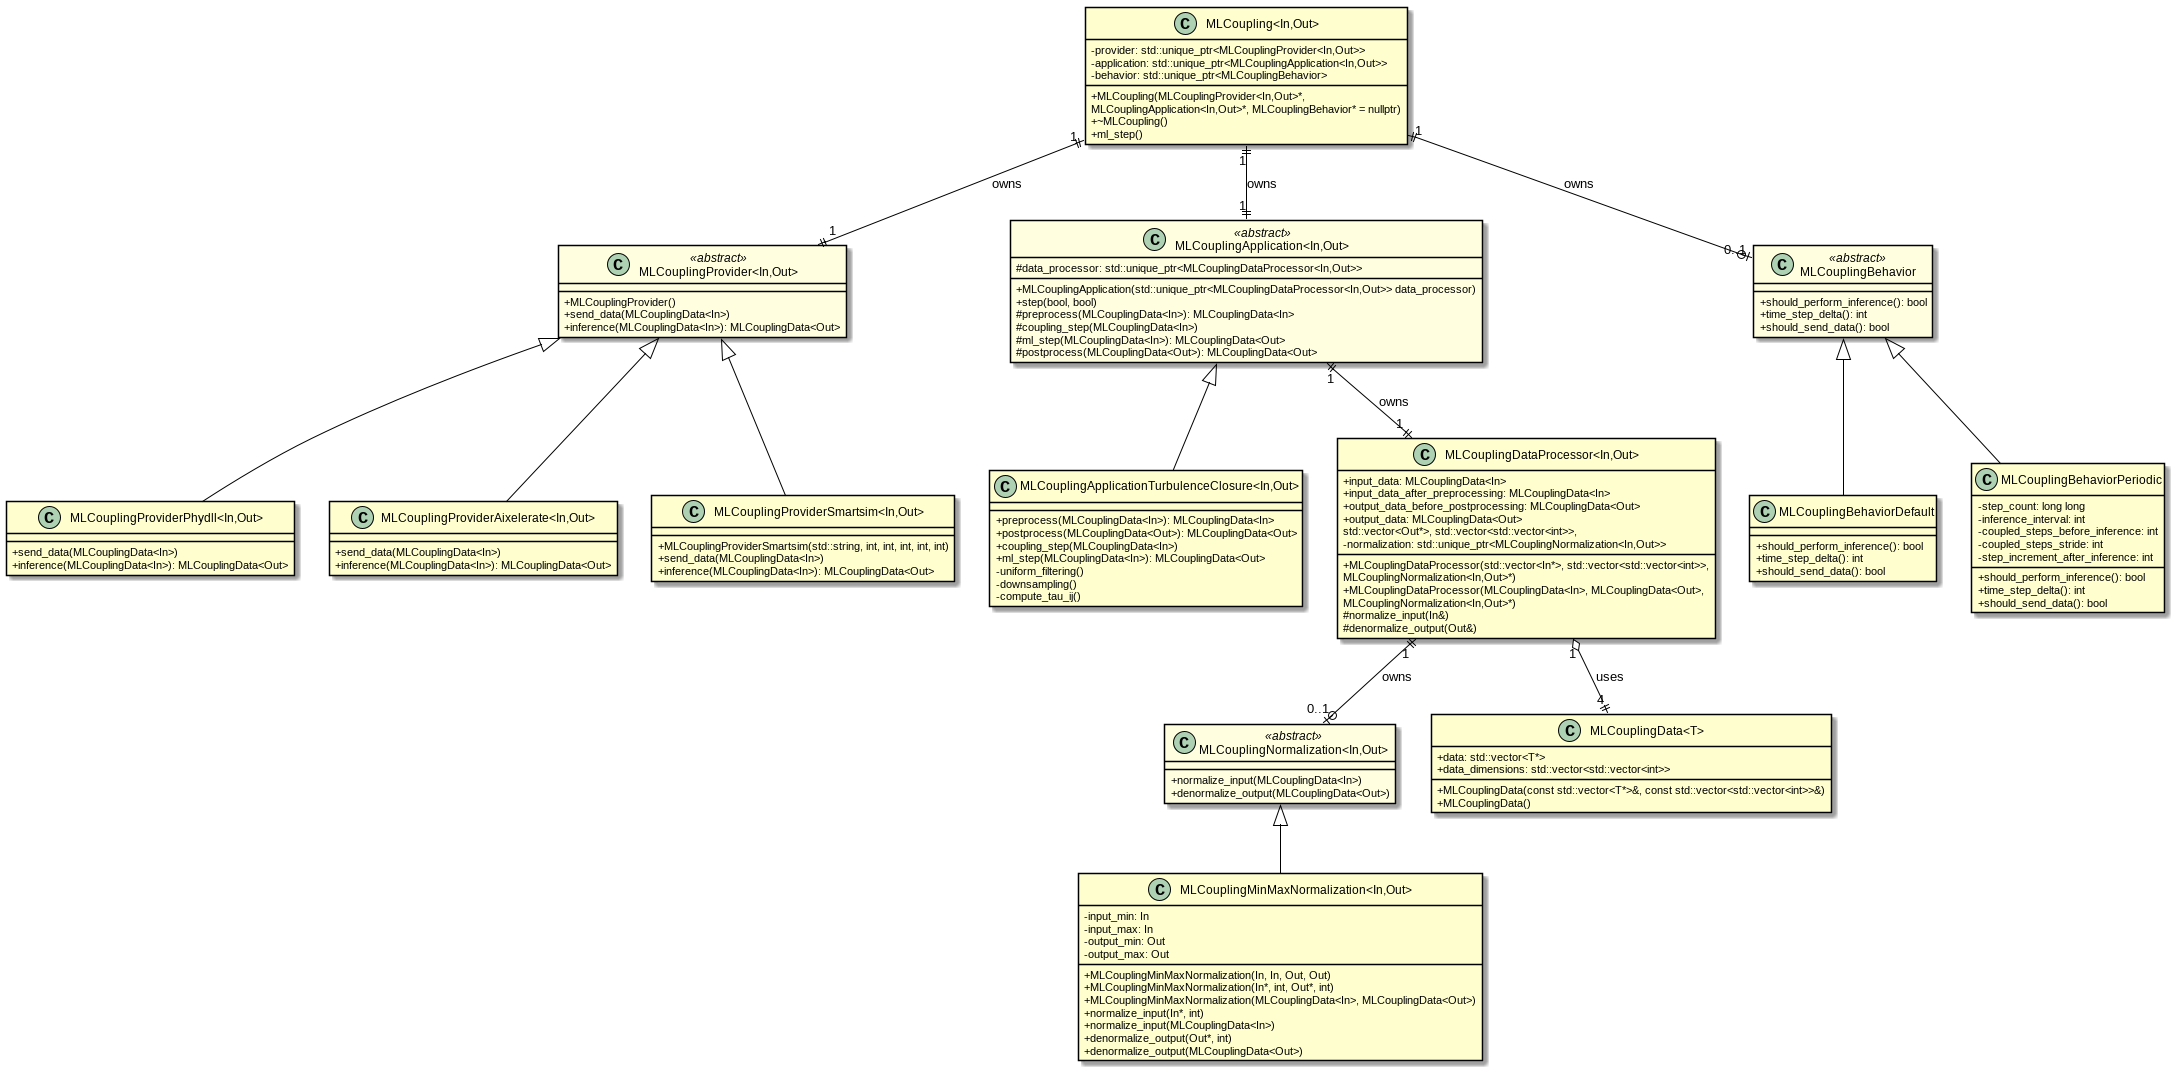
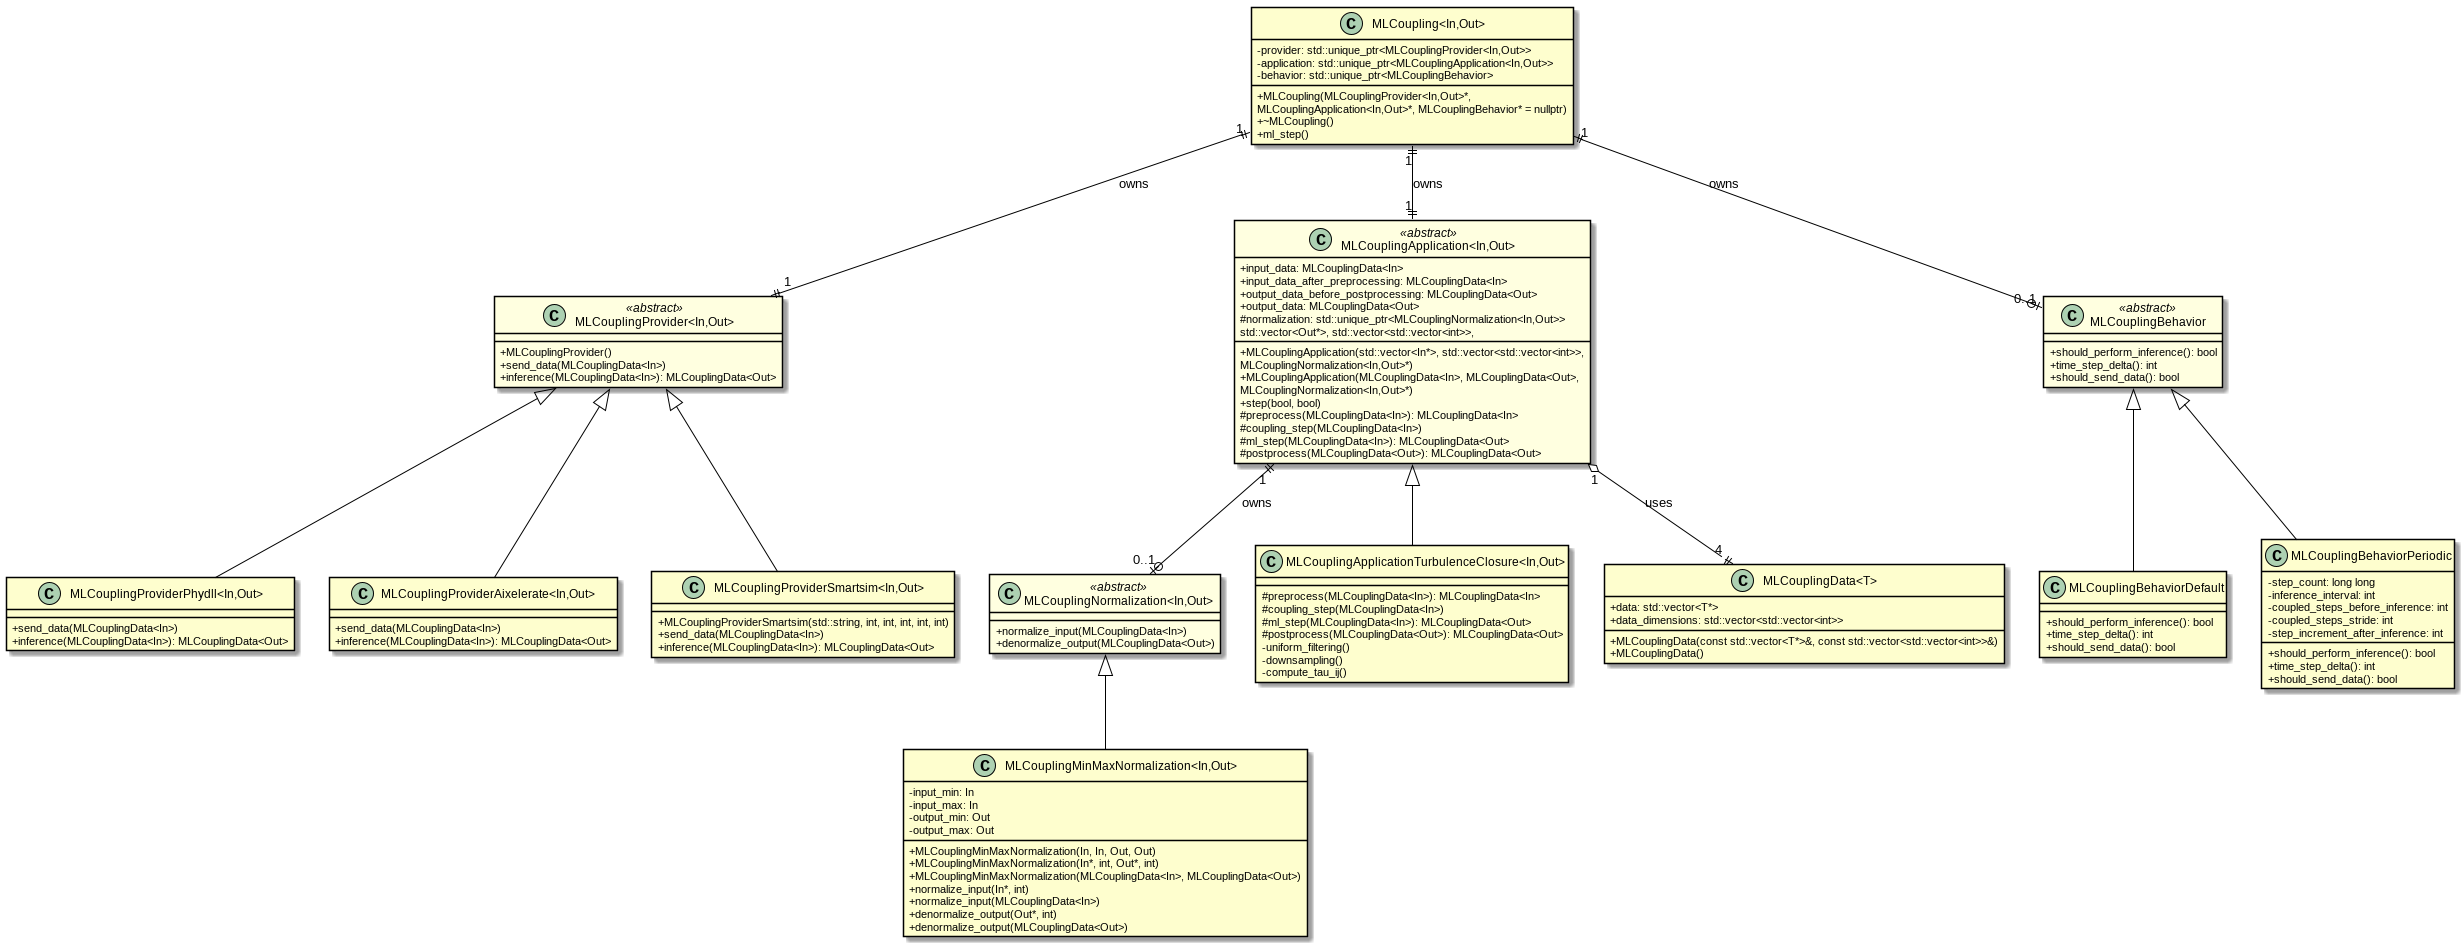
docs/chore: update UML diagram, example config, add README and build scripts
documentation/new.puml + .png + .svg:
- Remove MLCouplingDataProcessor from the class diagram entirely
- Add input_data, input_data_after_preprocessing,
  output_data_before_postprocessing, output_data as public members of
  MLCouplingApplication; normalization becomes a protected member
- Update both MLCouplingApplication constructors to match the new API
- Adjust MLCouplingApplicationTurbulenceClosure to show overridden
  methods as protected (not public)
- Update ownership arrows: Application owns Normalization and Data
  directly instead of via DataProcessor

example.config.toml:
- Updated to reflect current section/key names expected by the new
  config parsing logic

.gitignore:
- Add /build_release so the second build directory is not tracked

README.md (new):
- Added project README

build.sh (new):
- Convenience script for building the project

requirements.txt (new):
- Python dependencies for the registry generation script

diff --git a/README.md b/README.md
@@ -1,0 +1,17 @@
+
+
+## Requirements
+
+CMake
+C++ compiler supporting C++17
+Python 3.x
+    clang 16.0.6
+Clang 16.x
+
+## Installation
+
+The python dependencies can be installed via pip:
+
+```bash
+pip install -r requirements.txt
+```
